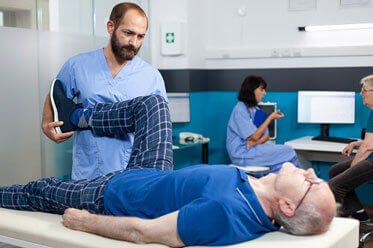
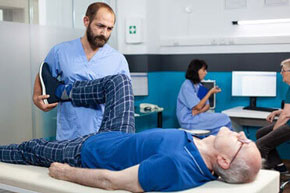
acualización

diff --git a/php/DOBLEUMARTINEZ/develop/PROJECTS/DOLORFIN/resources/css/styles.css b/php/DOBLEUMARTINEZ/develop/PROJECTS/DOLORFIN/resources/css/styles.css
@@ -89,6 +89,18 @@
         animation-iteration-count: infinite;
         animation-direction: alternate;  
     }
+    
+    .txt-center{
+        text-align: center;
+    }
+
+    .txt-rigth{
+        text-align: right;
+    }
+
+    .txt-left{
+        text-align: left;
+    }
 
 /* CTA */
 
@@ -167,11 +179,11 @@
 	}
 
 	.nav-bar > ul > .cta-nav {
-		background: #075E54;
+	    background: #075E54;
         color: #fff;
         font-family: 'Poppins', sans-serif!important;
         font-weight: bold;
-        font-size: 24px;    
+        font-size: 24px; 
 	}
 
     .nav-bar > ul > .cta-nav:hover {
@@ -395,7 +407,7 @@
     }
 
     .bloque-2 > ul > li > ul > li > img {
-        width: 100%;
+        
         border-radius: 10px;
     }
 
@@ -455,7 +467,7 @@
     }
 
     .img-uno {
-      background-image: url("../images/parallax-com.jpg");
+      background-image: url("../images/parallax-com.webp");
     }
 
 /* BLOQUE 5 */ 
@@ -783,6 +795,19 @@
 }
 
 @media(max-width: 425px){
+    
+    /* FX */
+     .txt-center{
+        text-align: center;
+    }
+
+    .txt-rigth{
+        text-align: center;
+    }
+
+    .txt-left{
+        text-align: center;
+    }
 
     /* NAV */
         .nav-bar > ul{
@@ -834,6 +859,10 @@
     /* BLOQUE 2  */
         .bloque-2 > ul > li > ol > li {
             width: 80%;
+        }
+        
+        .bloque-2 > ul > li > ul > .porcent-50 {
+            width: 100%;
         }
 
     /* BLOQUE 4  */

diff --git a/php/DOBLEUMARTINEZ/develop/PROJECTS/DOLORFIN/resources/sections/inicio/contenido.php b/php/DOBLEUMARTINEZ/develop/PROJECTS/DOLORFIN/resources/sections/inicio/contenido.php
@@ -4,16 +4,18 @@
   <div>
     <h1>SOLUCIONA<br> TU DOLOR DE<br> ESPALDA</h1>
     <p>Dolorfin especialista Quiropráctico, <br>Fisioterapeuta y Masajista.</p>
-    <button onclick="window.open('https://api.whatsapp.com/send?phone=5529574690&text=Me%20interesa%20agendar%20una%20cita%20en%20Dolorfin%20Zona%20Esmeralda');">Agenda una cita</button>
+    <button onclick="window.open('https://api.whatsapp.com/send?phone=+525633766324&text=Me%20interesa%20agendar%20una%20cita%20en%20Dolorfin%20Zona%20Esmeralda');">Agenda una cita</button>
   </div>
 
   <span class="mouse-icon" onclick="window.location.href='#dolorfin';">
-  	 <img class="updown" width="100" height="100" src="<?php echo $url; ?>/resources/images/mouse-cursor.png" title="Dolorfin" alt="icono de raton de computadora color azul png">
+  	 <img class="updown" width="100" height="100" src="<?php echo $url; ?>/resources/images/mouse-cursor.webp" title="Dolorfin" alt="icono de raton de computadora color azul png">
   </span>
 
-  <img class="desktop" src="<?php echo $url; ?>/resources/images/banner-1.jpg" width="1200" height="auto" title="Dolorfin" alt="Expertos en eliminar el dolor de espalda, cabeza y más">
-  <img class="tablet" src="<?php echo $url; ?>/resources/images/banner-1-tablet.jpg" width="768" height="auto" title="Dolorfin" alt="Expertos en eliminar el dolor de espalda, cabeza y más">
-  <img class="mobile" src="<?php echo $url; ?>/resources/images/banner-1-mobile.jpg" width="425" height="auto" title="Dolorfin" alt="Expertos en eliminar el dolor de espalda, cabeza y más">
+  <img class="desktop" src="<?php echo $url; ?>resources/images/banner-1.webp"  title="Dolorfin" alt="Expertos en eliminar el dolor de espalda, cabeza y más">
+
+  <img class="tablet" src="<?php echo $url; ?>resources/images/banner-1-tablet.webp" title="Dolorfin" alt="Expertos en eliminar el dolor de espalda, cabeza y más">
+
+  <img class="mobile" src="<?php echo $url; ?>resources/images/banner-1-mobile.webp" width="100" height="auto" title="Dolorfin" alt="Expertos en eliminar el dolor de espalda, cabeza y más">
 </div>
 
 <a id="dolorfin" href="<?php echo $url; ?>" style="color: #0000; outline: none;text-decoration: none;">Dolorfin Zona Esmeralda</a>
@@ -24,21 +26,21 @@
 	</p>
 	<ul>
 		<li onclick="window.location.href='#proceso-dolorfin';">
-			<img width="160" height="160" src="<?php echo $url; ?>/resources/images/Quiropractica.png" title="Dolorfin" alt="Expertos en eliminar el dolor de espalda, cabeza y más">
+			<img width="160" height="160" src="<?php echo $url; ?>resources/images/Quiropractica.png" title="Dolorfin" alt="Expertos en eliminar el dolor de espalda, cabeza y más">
 		    <h3>Quiropráctica</h3>
 		</li>
 		<li onclick="window.location.href='#proceso-dolorfin';">
-			<img width="160" height="160" src="<?php echo $url; ?>/resources/images/Fisioterapia.png" title="Dolorfin" alt="Expertos en eliminar el dolor de espalda, cabeza y más">
+			<img width="160" height="160" src="<?php echo $url; ?>resources/images/Fisioterapia.png" title="Dolorfin" alt="Expertos en eliminar el dolor de espalda, cabeza y más">
 		    <h3>Fisioterapia</h3>
 		</li>
 		<li onclick="window.location.href='#proceso-dolorfin';">
-			<img width="160" height="160" src="<?php echo $url; ?>/resources/images/Masaje-Terapeutico.png" title="Dolorfin" alt="Expertos en eliminar el dolor de espalda, cabeza y más">
+			<img width="160" height="160" src="<?php echo $url; ?>resources/images/Masaje-Terapeutico.png" title="Dolorfin" alt="Expertos en eliminar el dolor de espalda, cabeza y más">
 		    <h3>Masaje Terapéutico</h3>
 		</li>
 	</ul>
 	<div>
 		<h2>Dale una segunda oportunidad a tu cuerpo</h2>
-		<button onclick="window.open('https://api.whatsapp.com/send?phone=5529574690&text=Me%20interesa%20agendar%20una%20cita%20en%20Dolorfin%20Zona%20Esmeralda');">AGENDA UNA CITA Y DALE FIN AL <span>DOLOR</span></button>
+		<button onclick="window.open('https://api.whatsapp.com/send?phone=+525633766324&text=Me%20interesa%20agendar%20una%20cita%20en%20Dolorfin%20Zona%20Esmeralda');">AGENDA UNA CITA Y DALE FIN AL <span>DOLOR</span></button>
 	</div>
 </div>
 
@@ -58,14 +60,15 @@
 		</li>
 		<li>
 			<ul>
-				<li class="porcent-100">
-					<img src="<?php echo $url; ?>/resources/images/dolorfin-2.jpg" width="761" height="auto" title="Dolorfin" alt="Expertos en eliminar el dolor de espalda, cabeza y más">
+				<li class="porcent-100 txt-center">
+					<img src="<?php echo $url; ?>resources/images/dolorfin-2.webp" width="600px" height="262px" class="desktop" title="Dolorfin" alt="Expertos en eliminar el dolor de espalda, cabeza y más">
+					<img src="<?php echo $url; ?>resources/images/dolorfin-2-mobile.webp" width="335px" height="147px" class="mobile" title="Dolorfin" alt="Expertos en eliminar el dolor de espalda, cabeza y más">
 				</li>
-				<li class="porcent-50">
-					<img src="<?php echo $url; ?>/resources/images/dolorfin-4.jpg" width="373" height="auto" title="Dolorfin" alt="Expertos en eliminar el dolor de espalda, cabeza y más">
+				<li class="porcent-50 txt-rigth" >
+					<img src="<?php echo $url; ?>resources/images/dolorfin-4.webp" width="290px" height="193px" class="" title="Dolorfin" alt="Expertos en eliminar el dolor de espalda, cabeza y más">
 				</li>
-				<li class="porcent-50">
-					<img src="<?php echo $url; ?>/resources/images/dolorfin-3.jpg" width="373" height="auto" title="Dolorfin" alt="Expertos en eliminar el dolor de espalda, cabeza y más">
+				<li class="porcent-50 txt-left">
+					<img src="<?php echo $url; ?>resources/images/dolorfin-3.webp" width="290px" height="193px" title="Dolorfin" alt="Expertos en eliminar el dolor de espalda, cabeza y más">
 				</li>
 			</ul>
 		</li>
@@ -74,7 +77,7 @@
 
 <div class="bloque-3">
 	<h2>Nos encargaremos de diseñar un tratamiento <br>adecuado para la salud de tu espalda</h2>
-	<button onclick="window.open('https://api.whatsapp.com/send?phone=5529574690&text=Me%20interesa%20agendar%20una%20cita%20en%20Dolorfin%20Zona%20Esmeralda');">Agenda tu cita via WhatsApp</button>
+	<button onclick="window.open('https://api.whatsapp.com/send?phone=+525633766324&text=Me%20interesa%20agendar%20una%20cita%20en%20Dolorfin%20Zona%20Esmeralda');">Agenda tu cita via WhatsApp</button>
 </div>
 
 <div class="bloque-1">

diff --git a/php/DOBLEUMARTINEZ/develop/PROJECTS/DOLORFIN/resources/sections/inicio/head.php b/php/DOBLEUMARTINEZ/develop/PROJECTS/DOLORFIN/resources/sections/inicio/head.php
@@ -9,11 +9,11 @@
 
   <title><?php echo $title_tag;?></title>
 
-  <link href="<?php echo $url;?>/resources/images/icon.png" rel="shortcut icon"/>
+  <link href="<?php echo $url;?>resources/images/icon.png" rel="shortcut icon"/>
 
-  <link rel="manifest" href="<?php echo $url;?>/resources/images/icon.png">
-  <link rel="icon" type="resources/images/icon.png" sizes="32x32" href="<?php echo $url;?>/resources/images/icon.png">
-  <link rel="icon" type="resources/images/icon.png" sizes="16x16" href="<?php echo $url;?>/resources/images/icon.png">
+  <link rel="manifest" href="<?php echo $url;?>resources/images/icon.png">
+  <link rel="icon" type="resources/images/icon.png" sizes="32x32" href="<?php echo $url;?>resources/images/icon.png">
+  <link rel="icon" type="resources/images/icon.png" sizes="16x16" href="<?php echo $url;?>resources/images/icon.png">
 
   <meta property="og:title" content="Dolorfin especialista Quiropráctico, Fisioterapeuta y Masajista">
   <meta property="og:site_name" content="Dolorfin Zona Esmeralda">
@@ -23,8 +23,8 @@
   <meta property="og:image" content="https://dolorfinesmeralda.com/resources/images/icon.png">
 
   <!-- css -->
-  <link rel="stylesheet" href="<?php echo $url;?>/resources/css/styles.css"/>
-  <link rel="stylesheet" href="<?php echo $url;?>/resources/css/fontawesome-free-5.7.0-web/css/all.css">
+  <link rel="stylesheet" href="<?php echo $url;?>resources/css/styles.css"/>
+  <link rel="stylesheet" href="<?php echo $url;?>resources/css/fontawesome-free-5.7.0-web/css/all.css">
 
   <!--jquery
   <script src="<?php echo $url;?>/resources/js/jquery.min.js"></script> -->
@@ -36,7 +36,7 @@
        document.getElementById("demo-form").submit();
      }
    </script>-->
-  
+
   <!-- Google tag (gtag.js) -->
   <script async src="https://www.googletagmanager.com/gtag/js?id=G-NDH57KDJ3H"></script>
   <script>

diff --git a/php/DOBLEUMARTINEZ/develop/PROJECTS/DOLORFIN/resources/sections/inicio/nav.php b/php/DOBLEUMARTINEZ/develop/PROJECTS/DOLORFIN/resources/sections/inicio/nav.php
@@ -2,21 +2,21 @@
 <nav class="nav-bar">
   <ul>
     <li onclick="window.location.href='<?php echo $url;?>';" >
-      <img width="200" height="67" src="<?php echo $url;?>/resources/images/LOGO-DOLORFIN.png" title="Dolorfin Zona Esperalda" alt="Logotipo dolordin zona ezperalda color blanco png">
+      <img width="200" height="67" src="<?php echo $url;?>resources/images/LOGO-DOLORFIN.webp" title="Dolorfin Zona Esperalda" alt="Logotipo dolordin zona ezperalda color blanco png">
     </li>
     <li onclick="window.location.href='mailto:contacto@dolorfinesmeralda.com';" >
     	<i class="fas fa-envelope"></i> <span>contacto@dolorfinesmeralda.com</span>
     </li>
-    <li onclick="window.location.href='tel:5529574690';" >
-    	<i class="fas fa-phone"></i> <span>55 2957 4690</span>
+    <li onclick="window.location.href='tel:5633766324';" >
+    	<i class="fas fa-phone"></i> <span>56 3376 6324</span>
     </li>
-    <li onclick="window.open('https://api.whatsapp.com/send?phone=5529574690&text=Me%20interesa%20agendar%20una%20cita%20en%20Dolorfin%20Zona%20Esmeralda');" class="cta-nav" >
+    <li onclick="window.open('https://api.whatsapp.com/send?phone=+525633766324&text=Me%20interesa%20agendar%20una%20cita%20en%20Dolorfin%20Zona%20Esmeralda');" class="cta-nav" >
     	<i class="fab fa-whatsapp"></i> Whatsapp 
    	</li>
   </ul>
 </nav>
 
 <!-- CTA - WHATSAPP 
-<button class="cta-wha-flotante" onclick="window.open('https://api.whatsapp.com/send?phone=5529574690&text=Me%20interesa%20agendar%20una%20cita%20en%20Dolorfin%20Zona%20Esmeralda');" >
+<button class="cta-wha-flotante" onclick="window.open('https://api.whatsapp.com/send?phone=+525633766324&text=Me%20interesa%20agendar%20una%20cita%20en%20Dolorfin%20Zona%20Esmeralda');" >
 	<i class="fab fa-whatsapp"></i>
 </button>-->

diff --git a/php/DOBLEUMARTINEZ/develop/PROJECTS/KADCREATIVOS/resources/sections/inicio/contenido.php b/php/DOBLEUMARTINEZ/develop/PROJECTS/KADCREATIVOS/resources/sections/inicio/contenido.php
@@ -10,7 +10,7 @@
 	<div>
 		<h1>¿QUIÉNES SOMOS?</h1>
 		<p>
-			Somos una agencia especialista en la fusión de estrategia y diseño digital para tu marca, dedicada a proponer estrategias integrales y de valor para cada uno de nuestros clientes.
+			Somos una agencia especialista en la fusión de estrategia y diseño digital e impresa para tu marca, dedicada a proponer estrategias integrales y de valor para cada uno de nuestros clientes.
 		</p>
 	</div>
 	<img  src="resources/images/banner-2.jpg" class="desktop" title="@kadcreativos.com" alt="@kadcreativos">
@@ -132,8 +132,6 @@
 		<li onclick="window.location.href='cuadros';"><h2>CUADROS</h2></li>
 		<li onclick="window.location.href='tarjetas';"><h2>TARJETAS</h2></li>
 		<li onclick="window.location.href='promocionales';"><h2>PROMOCIONALES</h2></li>
-		<li onclick="window.location.href='promocionales';"><h2>PLAYERAS</h2></li>
-		<li onclick="window.location.href='promocionales';"><h2>TAZAS</h2></li>
 		<li class="otros"><h2>Y MAS...</h2></li>
 	</ol>
 </div>
@@ -146,7 +144,7 @@
 		<li>@kadcreativos</li>
 		<li onclick="window.location.href='tel:5554341397';" >5554341397</li>
 		<li onclick="window.location.href='mailto:contacto@kadcreativos.com';" >contacto@kadcreativos.com</li>
-		<li onclick="window.location.href='https://goo.gl/maps/4YNCjeQhWcTMqvVy9';" >Calle. Cementos Anahuac No. 52A<br>Col.Vista Hermosa<br>Tlalnepantla, Edo.Mex.</li>
+		<li onclick="window.location.href='https://goo.gl/maps/4YNCjeQhWcTMqvVy9';" >Calle. Cementos Anahuac No. 53C<br>Col.Vista Hermosa<br>Tlalnepantla, Edo.Mex.</li>
 	</ol>
 </div>
 
